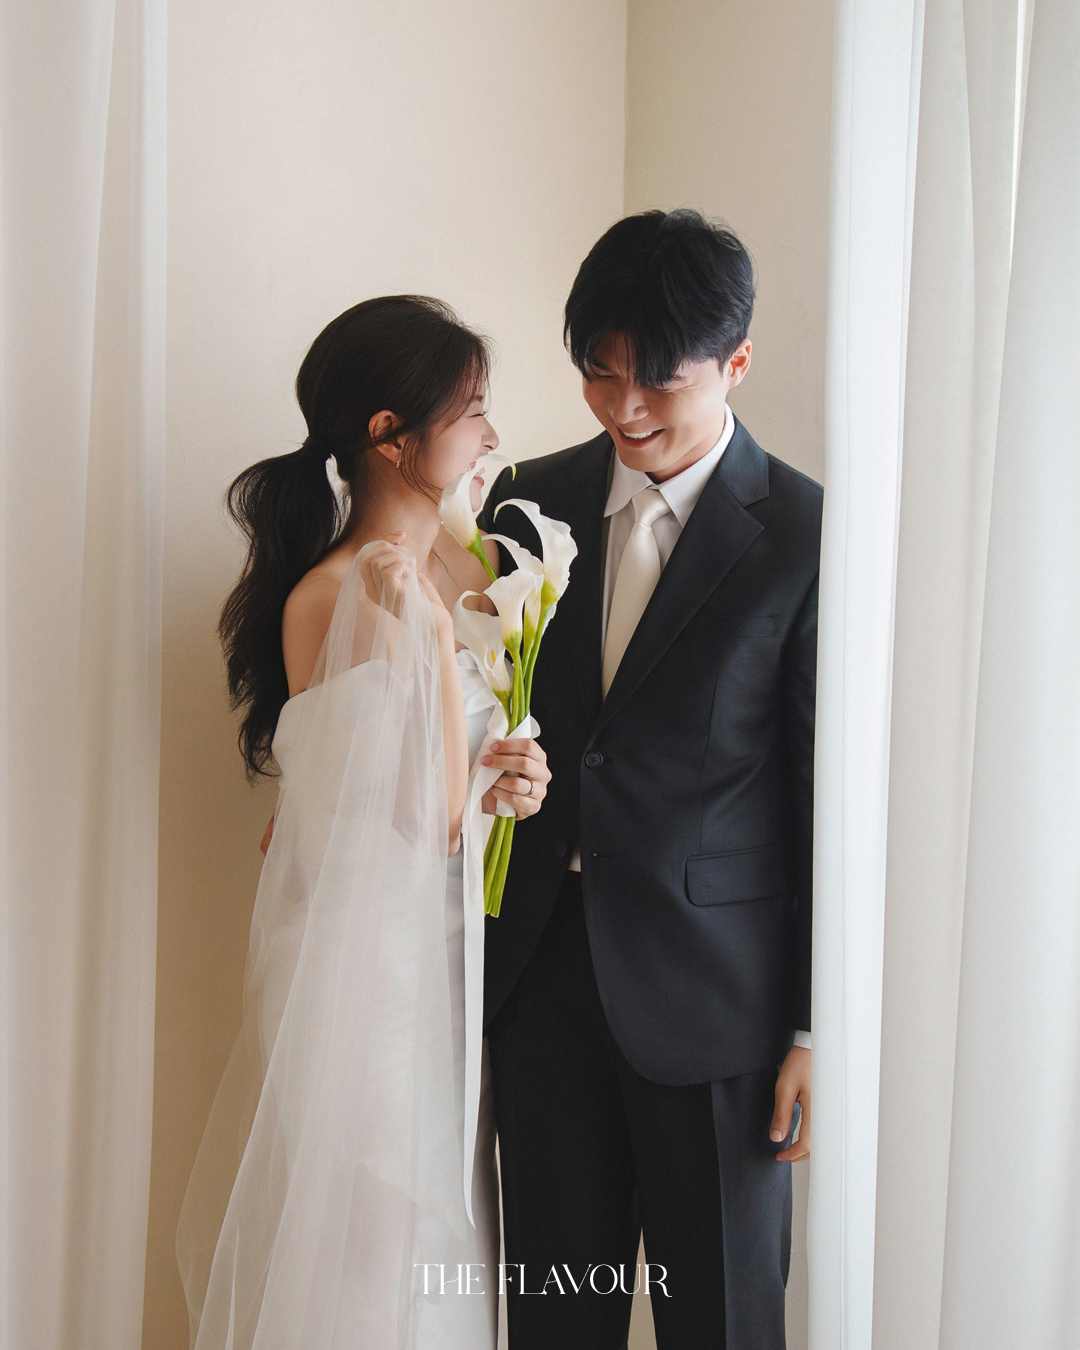
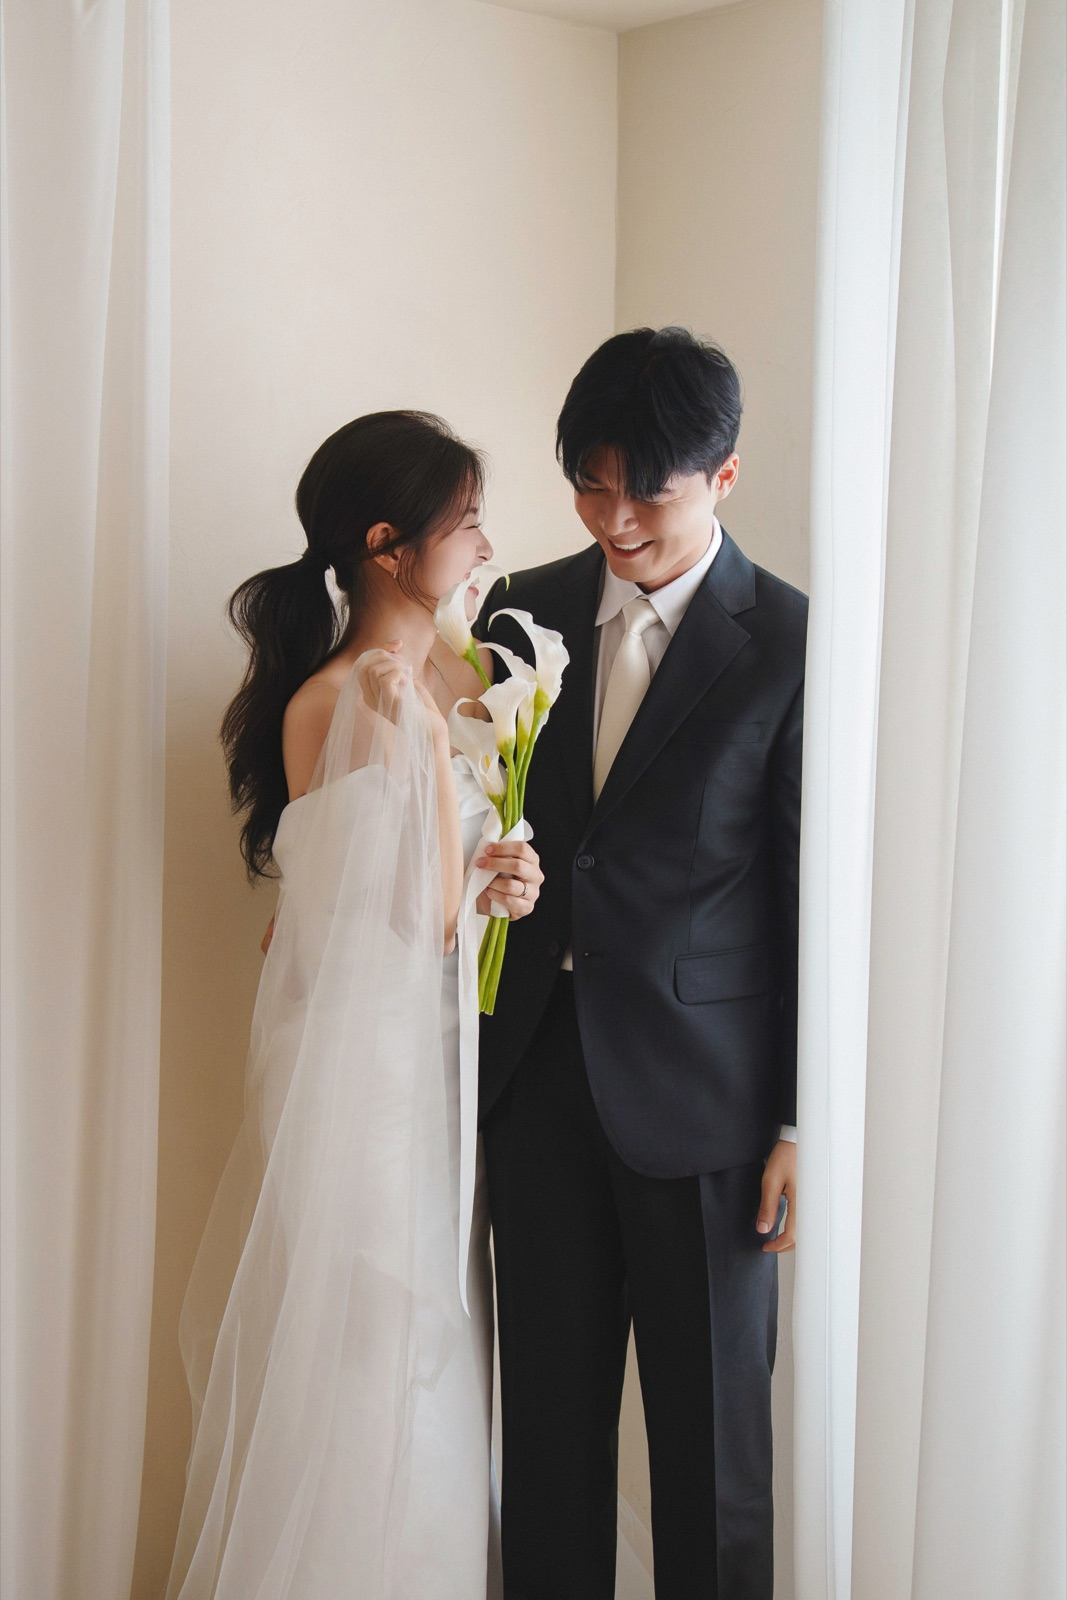
3-5.jpg 를 새 고해상도 편집본(3850×5774)으로 교체
기존 1080×1350(4:5, 워터마크 포함) 저해상도 파일이 새 편집본으로 대체되면서
갤러리 20장이 전부 2:3 세로 비율로 통일됐다.

- img/3-5.jpg 원본 교체 후 optimized(1067×1600)·thumb(720×1080) 재생성
- 업스케일 방지용 원본 복사 예외 불필요 → 일반 파이프라인으로 복귀
- GALLERY_PHOTOS 의 3-5 항목 1080×1350 → 1067×1600
- 4:5 예외를 전제한 css 주석 정리

diff --git a/css/style.css b/css/style.css
@@ -406,7 +406,7 @@ button {
   --thumb-h: min(calc((min(100vw, 480px) - 7rem) * 1.29), 72svh);
 
   display: flex;
-  align-items: center;                /* 비율이 다른 카드(3-5 는 4:5)를 세로 중앙 정렬 */
+  align-items: center;                /* 비율이 다른 카드가 섞여도 세로 중앙 정렬 */
   gap: 8px;
   overflow-x: auto;
   scroll-snap-type: x mandatory;      /* 카드가 한 장씩 딱 떨어지게 */
@@ -432,8 +432,8 @@ button {
 .gallery-thumb {
   /* 사진마다 원본 비율 그대로(잘림 없이) 렌더링한다. --ar 은 js/main.js 가 넣어 준다.
      기준 높이에서 폭을 구하되 안쪽 폭의 92% 를 넘지 않게 캡한다. 지금은 전부 세로
-     사진이지만, 2:3 보다 넓은 사진(3-5 는 4:5)이 섞이거나 앞으로 가로 사진이 추가돼도
-     이 캡이 카드가 화면 밖까지 넓어지는 것을 막아 준다.
+     사진(2:3)이지만, 앞으로 2:3 보다 넓은 사진이 섞여도 이 캡이 카드가 화면 밖까지
+     넓어지는 것을 막아 준다.
      높이는 aspect-ratio 로 폭에서 자동 도출 → 어느 쪽이 이기든 비율은 항상 정확하다. */
   flex: 0 0 auto;
   aspect-ratio: var(--ar, 0.6663);

diff --git a/js/main.js b/js/main.js
@@ -29,7 +29,7 @@ const GALLERY_PHOTOS = [
   { file: '3-2.jpg',  w: 1066, h: 1600 },
   { file: '3-3.jpg',  w: 1066, h: 1600 },
   { file: '3-4.jpg',  w: 1011, h: 1600 },
-  { file: '3-5.jpg',  w: 1080, h: 1350 },   // 4:5 — 다른 사진(2:3)보다 살짝 넓다
+  { file: '3-5.jpg',  w: 1067, h: 1600 },
   { file: '4-1.jpg',  w: 1066, h: 1600 },
   { file: '4-2.jpg',  w: 1066, h: 1600 },
 ];
